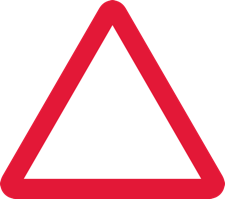
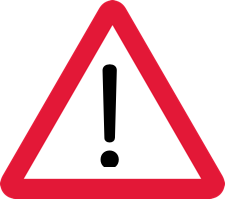
Display location under search.

Changed region(s): [[0.4356, 0.3015, 0.5289, 0.7236], [0.4356, 0.7538, 0.5289, 0.8442]]

diff --git a/src/Entity/State/Stormy.java b/src/Entity/State/Stormy.java
@@ -6,8 +6,8 @@
 
 package src.Entity.State;
 
+import src.Entity.ButtonWarning;
 import src.Entity.CloudEmitter;
-import src.Entity.Fog;
 import src.Entity.Lightning;
 import src.Entity.RainEmitter;
 import src.Entity.WeatherState;
@@ -16,25 +16,29 @@ import src.Entity.WeatherState;
  *
  * @author skas
  */
-public class Rainy extends State<WeatherState>{
+public class Stormy extends State<WeatherState>{
 
     private int rate = 1500;
     private float color = 0.5f;
     private float min_alpha = 0.7f;
-    public Rainy(int rate, float color, float min_alpha)
+    public Stormy(int rate, float color, float min_alpha)
     {
         this.rate = rate;
         this.color = color;
         this.min_alpha = min_alpha;
     }
 
-    public Rainy() {
+    public Stormy() {
     }
     @Override
     public void enter(WeatherState obj) {
         //obj.weatherEntities should be empty
         obj.weatherEntities.add(new CloudEmitter(color, rate, min_alpha));
         obj.weatherEntities.add(new RainEmitter());
+        obj.weatherEntities.add(new Lightning());
+        obj.weatherEntities.add(new ButtonWarning());
+
+        //add rain effects.
     }
 
     @Override

diff --git a/src/WeatherApp.java b/src/WeatherApp.java
@@ -53,6 +53,7 @@ public class WeatherApp extends BasicGame {
             float midY = 768.0f;
             Font tFont =new Font(java.awt.Font.SERIF, java.awt.Font.BOLD, 35);
             TrueTypeFont uFont = new TrueTypeFont(tFont, true);
+            
             this.searchField = new TextField(gc , uFont, 0 , 0 , 200 , 35, new ComponentListener() {
                 public void componentActivated(AbstractComponent ac) {
                     System.out.println("Hey TextField here!");
@@ -64,7 +65,7 @@ public class WeatherApp extends BasicGame {
                     }
                 }
             });
-            this.searchField.setFocus(true);
+            this.searchField.setBackgroundColor(Color.gray);
             new WeatherGroup();
             
             //DrawBottomUI
@@ -130,6 +131,8 @@ public class WeatherApp extends BasicGame {
            if(this.searchField != null)
            {
              this.searchField.render(container, g);
+            g.drawString("Location: "+Forecast.currentLocation, 0, 30);
+
            }
            else
            {

diff --git a/src/Entity/WeatherState.java b/src/Entity/WeatherState.java
@@ -36,15 +36,20 @@ public class WeatherState extends Render implements Updateable
             this.state.exit(this);
             if(WeatherType.CLOUDY.ordinal() == type)
             {
-                this.state = new Cloudy(1500, 1.0f, 0.5f);
+                this.state = new Cloudy(1500, 1.0f, 0.75f);
             }
             else if(WeatherType.PARTLYCLOUDY.ordinal() == type)
             {
+                //Clouds with less alpha
                 this.state = new Cloudy(3000, 1.0f, 0.0f);
             }
             else if(WeatherType.RAINY.ordinal() == type)
             {
                 this.state = new Rainy();
+            }
+            else if(WeatherType.THUNDERSTORM.ordinal() == type)
+            {
+                this.state = new Stormy();
             }
             else if(WeatherType.SNOW.ordinal() == type)
             {

diff --git a/src/Entity/Fog.java b/src/Entity/Fog.java
@@ -1,0 +1,37 @@
+/*
+ * To change this license header, choose License Headers in Project Properties.
+ * To change this template file, choose Tools | Templates
+ * and open the template in the editor.
+ */
+
+package src.Entity;
+
+import org.newdawn.slick.Color;
+
+/**
+ *
+ * @author skas
+ */
+public class Fog extends Render implements Updateable
+{
+    private static final String PATH = "cloud.png";
+    private Color color = new Color(255,255,255,0);
+    public Fog()
+    {
+        super(325,225,PATH);
+        this.color.a = 0.5f;
+        this.scale = 3;
+    }
+
+    @Override
+    public void update(int delta) 
+    {
+        
+    }
+    
+    @Override
+    public void render(org.newdawn.slick.Graphics g)
+    {
+       this.img.draw(this.getX(), this.getY(), this.getScale(), this.color);
+    }
+}

diff --git a/src/Entity/BottomUI.java b/src/Entity/BottomUI.java
@@ -48,7 +48,7 @@ public class BottomUI extends Render implements Updateable
         {
             //Additionally, each button should store the state of the weather.
             new ButtonTab(
-                quarterScreen-10 + spanByMAX*i,185+this.getY(),"Feb 27"
+                quarterScreen + spanByMAX*i,185+this.getY(),"Feb 27"
             );
         }
         
@@ -56,6 +56,7 @@ public class BottomUI extends Render implements Updateable
         float yTemprature = 220/3.0f + this.getY();
         tempratureText = new TextUI("33",(int)quarterScreen,(int) yTemprature,
                             new Font(Font.SERIF, Font.BOLD, 70));
+        tempratureText.x = Render.screenWidth*1/3;
         
         int infoX = Render.screenWidth*2/3;
         int infoY = (int)this.y+15;

diff --git a/src/Entity/Lightning.java b/src/Entity/Lightning.java
@@ -16,18 +16,18 @@ import src.Sound;
 public class Lightning extends Render implements Updateable {
     public static final String PATH = "lightning.png";
     public static final int ONE_SECOND = 1000;
-    private int current_ms = 0;
+    private int current_ms = 5000;
     private Color color = new Color(255,255,255,0);
     public Lightning()
     {
-        super(500,150,PATH);
+        super(400,150,PATH);
         this.scale = 0.5f;
         this.color.a =0;
     }
     public void update(int delta) {
         if(current_ms > ONE_SECOND * 5)
         {
-            this.x =(float)(500+ Math.random() * 100 - 50);
+            this.x =(float)(400+ Math.random() * 200 - 100);
             this.current_ms = 0;
             this.color.a = 1.0f;
             Sound.play(0, 4);

diff --git a/src/Entity/Render.java b/src/Entity/Render.java
@@ -24,7 +24,7 @@ import org.newdawn.slick.SlickException;
  * 
  */
 public abstract class Render {
-     public final boolean DEBUG = true;
+     public final boolean DEBUG = false;
     //This serves to refer to the arrayList of Entities on the screen.
      public static ArrayList<src.Entity.Render> entities;
      public static final float D_SCREENWIDTH  = 1024;
@@ -184,7 +184,8 @@ public abstract class Render {
      
      public void render(org.newdawn.slick.Graphics g)
      {
-         g.drawRect(this.getX(), this.getY(), this.getWidth(), this.getHeight());
+         if(DEBUG)
+            g.drawRect(this.getX(), this.getY(), this.getWidth(), this.getHeight());
          this.img.draw(this.getX(), this.getY(), this.getScale());
      }
      

diff --git a/src/Entity/State/Foggy.java b/src/Entity/State/Foggy.java
@@ -6,10 +6,34 @@
 
 package src.Entity.State;
 
+import src.Entity.ButtonWarning;
+import src.Entity.Fog;
+import src.Entity.WeatherState;
+
 /**
  *
  * @author skas
  */
-public class Foggy {
+public class Foggy extends State<WeatherState> {
+    //Do nothing when sunny.
+    @Override
+    public void enter(WeatherState obj) 
+    {
+        obj.weatherEntities.add(new Fog());
+        obj.weatherEntities.add(new ButtonWarning());
+    }
+
+    @Override
+    public void execute(WeatherState obj) {
+    }
+
+    @Override
+    public void exit(WeatherState obj) 
+    {
+        for(int i = 0; i < obj.weatherEntities.size();i++)
+        {
+            obj.weatherEntities.get(i).destroy();
+        }
+    }
     
 }

diff --git a/src/Entity/ButtonWarning.java b/src/Entity/ButtonWarning.java
@@ -1,0 +1,30 @@
+/*
+ * To change this license header, choose License Headers in Project Properties.
+ * To change this template file, choose Tools | Templates
+ * and open the template in the editor.
+ */
+
+package src.Entity;
+
+/**
+ *
+ * @author skas
+ */
+public class ButtonWarning extends Button  {
+    private static final String PATH = "warning.png";
+    
+    public ButtonWarning()
+    {
+        super(PATH, 100, 100, 1.0f, "");
+    }
+
+    @Override
+    public void update(int delta) {
+        super.update(delta);
+    }
+
+    @Override
+    public void action() {
+        System.out.println("Stop poking me!");
+    }
+}

diff --git a/src/Entity/Sun.java b/src/Entity/Sun.java
@@ -70,13 +70,12 @@ public class Sun extends Render implements Updateable {
     public void render(Graphics g)
     {
         super.render(g);
-         g.drawString("Howdy!", 30, 30);
          //This centerOfRotation Has to be set everyupdate;
 //        img.setCenterOfRotation(this.getWidth()/2,this.getHeight()/2);
         this.img.draw(getX(),getY(), this.getScale(), this.color);
         
         //This is to check if the mouse is over the sun.
-        this.isHitRadius(MouseW.getX(), MouseW.getY());
+       
        
         
       

diff --git a/src/XMLBuilder.java b/src/XMLBuilder.java
@@ -47,6 +47,7 @@ public class XMLBuilder {
         if(locs.isEmpty())
             return null;
         int idLoc = Integer.parseInt(locs.get(0)[0]);
+        Forecast.currentLocation = locs.get(0)[1];
         Forecast.current = getForecast(idLoc, Forecast.isCelsius);
         return Forecast.current;
     }

diff --git a/src/Forecast.java b/src/Forecast.java
@@ -12,6 +12,7 @@ import java.util.ArrayList;
 
 public class Forecast 
 {
+    public static String currentLocation = "London";
     public static Forecast current;
     public static boolean isCelsius = true;
     private double windspeed;
